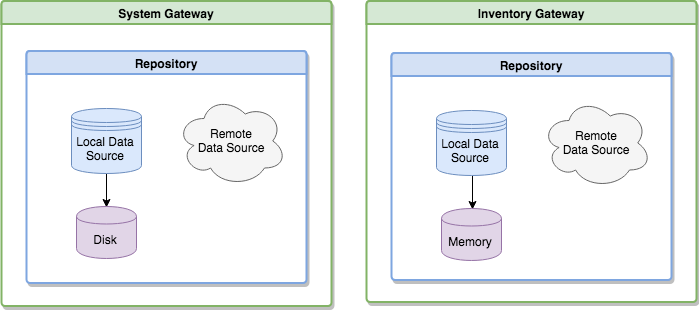
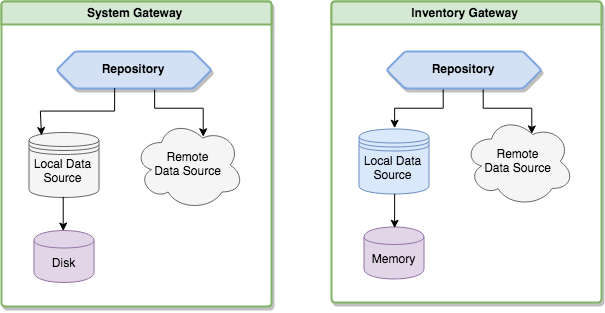
Update diagrams in README

diff --git a/README.md b/README.md
@@ -60,6 +60,13 @@ Due the data volatility, it is used a Repository that caches in memory.
   <img alt='Clean' src="https://raw.githubusercontent.com/andremion/Theatre/master/art/data.png"></br>
 </p>
 
+### Presentation
+
+<p align="center">
+  <img alt='Clean' src="https://raw.githubusercontent.com/andremion/Theatre/master/art/presentation.png"></br>
+</p>
+
+
 ## Credentials
 
 Register your account [here](https://iodocs.londontheatredirect.com/member/register) to get your developer key and put it into [gradle.properties](data/gradle.properties) file
